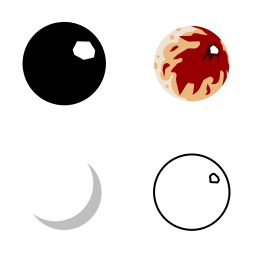
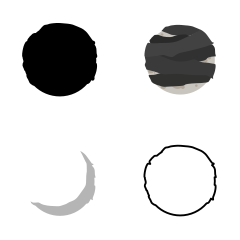
MSVC setup, hunter skin reworked

diff --git a/src/game/server/gamemodes/zomb.cpp b/src/game/server/gamemodes/zomb.cpp
@@ -2,6 +2,7 @@
 #include "zomb.h"
 #include <stdio.h>
 #include <io.h>
+#include <string.h>
 #include <engine/server.h>
 #include <engine/console.h>
 #include <engine/shared/config.h>
@@ -27,6 +28,11 @@ static char msgBuff__[256];
 	memset(msgBuff__, 0, sizeof(msgBuff__));\
 	str_format(msgBuff__, 256, ##__VA_ARGS__);\
 	GameServer()->Console()->Print(IConsole::OUTPUT_LEVEL_STANDARD, "zomb", msgBuff__);
+
+template<typename T>
+inline T z_abs(T var) {
+	return var < T(0) ? -var : var;
+}
 
 #define ZombCID(id) (id + MAX_SURVIVORS)
 #define NO_TARGET -1
@@ -283,7 +289,7 @@ f32 noise1D(f32 x)
 	return 0.395f * (n0 + n1);
 }
 
-void CGameControllerZOMB::SpawnZombie(i32 zid, u8 type, bool isElite, u32 enrageTime)
+void CGameControllerZOMB::SpawnZombie(i32 zid, u8 type, u8 isElite, u32 enrageTime)
 {
 	bool isEnraged = (enrageTime == 0 || type == ZTYPE_BERSERKER);
 	// do we need to update clients
@@ -698,7 +704,7 @@ vec2 CGameControllerZOMB::PathFind(vec2 start, vec2 end)
 				if(JumpStraight(succPos, succDir, mEnd, &jumps)) {
 					ivec2 jumpPos = succPos + succDir * jumps;
 					f32 g = pCurrent->g + jumps;
-					f32 h = abs(mEnd.x - jumpPos.x) + abs(mEnd.y - jumpPos.y);
+					f32 h = z_abs(mEnd.x - jumpPos.x) + z_abs(mEnd.y - jumpPos.y);
 
 					if(jumpPos == mEnd) {
 						addToList(closedList, addNode(Node(jumpPos, 0, 0, pCurrent)));
@@ -727,7 +733,7 @@ vec2 CGameControllerZOMB::PathFind(vec2 start, vec2 end)
 				if(JumpDiagonal(succPos, succDir, mEnd, &jumps)) {
 					ivec2 jumpPos = succPos + succDir * jumps;
 					f32 g = pCurrent->g + jumps * 2.f;
-					f32 h = abs(mEnd.x - jumpPos.x) + abs(mEnd.y - jumpPos.y);
+					f32 h = z_abs(mEnd.x - jumpPos.x) + z_abs(mEnd.y - jumpPos.y);
 
 					if(jumpPos == mEnd) {
 						addToList(closedList, addNode(Node(jumpPos, 0, 0, pCurrent)));
@@ -853,7 +859,7 @@ void CGameControllerZOMB::SendZombieInfos(i32 zid, i32 CID)
 
 		case ZTYPE_HUNTER:
 			nci.m_apSkinPartNames[SKINPART_BODY] = "hunter";
-			handFeetColor = PackColor(28, 255, 192);
+			handFeetColor = PackColor(0, 0, 33); // grey
 			break;
 
 		case ZTYPE_DOMINANT:
@@ -916,8 +922,8 @@ void CGameControllerZOMB::HandleMovement(u32 zid, const vec2& targetPos, bool ta
 		}
 
 		if(pos.y < pCore->m_Pos.y &&
-		   abs(pos.x - pCore->m_Pos.x) < phyzSize &&
-		   abs(pos.y - pCore->m_Pos.y) < (phyzSize*1.5f)) {
+		   z_abs(pos.x - pCore->m_Pos.x) < phyzSize &&
+		   z_abs(pos.y - pCore->m_Pos.y) < (phyzSize*1.5f)) {
 			grounded = true;
 			break;
 		}
@@ -929,7 +935,7 @@ void CGameControllerZOMB::HandleMovement(u32 zid, const vec2& targetPos, bool ta
 
 	// jump
 	input.m_Jump = 0;
-	f32 yDist = abs(dest.y - pos.y);
+	f32 yDist = z_abs(dest.y - pos.y);
 	if(m_ZombJumpClock[zid] <= 0 && dest.y < pos.y) {
 		if(yDist > 2.f) {
 			if(grounded) {
@@ -1494,7 +1500,7 @@ void CGameControllerZOMB::TickZombies()
 		m_ZombCharCore[i].m_TriggeredEvents |= jumpTriggers;
 
 		// smooth out small movement
-		f32 xDist = abs(m_ZombDestination[i].x - m_ZombCharCore[i].m_Pos.x);
+		f32 xDist = z_abs(m_ZombDestination[i].x - m_ZombCharCore[i].m_Pos.x);
 		if(xDist < 5.f) {
 			m_ZombCharCore[i].m_Vel.x = (m_ZombDestination[i].x - m_ZombCharCore[i].m_Pos.x);
 		}
@@ -2416,6 +2422,7 @@ CGameControllerZOMB::CGameControllerZOMB(CGameContext *pGameServer)
 	}
 
 	// init zombies
+	mem_zero(m_ZombAlive, sizeof(m_ZombAlive));
 	mem_zero(m_ZombAttackTick, sizeof(m_ZombAttackTick));
 	mem_zero(m_ZombDmgTick, sizeof(m_ZombDmgTick));
 	mem_zero(m_ZombDmgAngle, sizeof(m_ZombDmgAngle));
@@ -2454,6 +2461,11 @@ CGameControllerZOMB::CGameControllerZOMB(CGameContext *pGameServer)
 	m_LaserID = 512;
 	m_ProjectileCount = 0;
 	m_ProjectileID = 512;
+
+#ifdef CONF_DEBUG
+	m_DbgPathLen = 0;
+	m_DbgLinesCount = 0;
+#endif
 }
 
 void CGameControllerZOMB::Tick()

diff --git a/src/game/server/gamemodes/zomb.h b/src/game/server/gamemodes/zomb.h
@@ -144,7 +144,7 @@ class CGameControllerZOMB : public IGameController
 	void DebugLine(ivec2 s, ivec2 e);
 #endif
 
-	void SpawnZombie(i32 zid, u8 type, bool isElite, u32 enrageTime);
+	void SpawnZombie(i32 zid, u8 type, u8 isElite, u32 enrageTime);
 	void KillZombie(i32 zid, i32 killerCID);
 	void SwingHammer(i32 zid, u32 dmg, f32 knockback);
 
